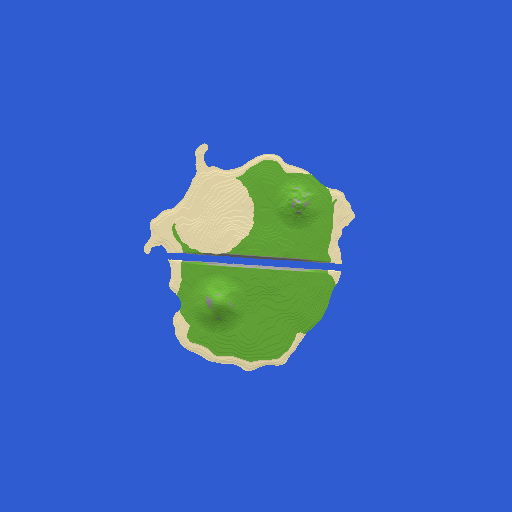
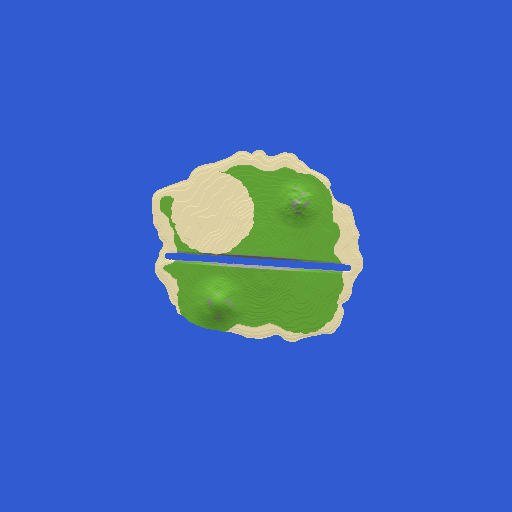
Cavernas, vilas e um comando só para criar o mundo
- gerar.py escava cavernas (túneis sinuosos e salas) com pelo menos
  5 blocos de rocha sob o chão, sem abrir buracos nem inundar; lava
  abaixo de Y -55, como no Minecraft normal.
- testar_local.py constrói as vilas marcadas no editor com
  /place structure, depois que o Paper completa os chunks.
- criar_mundo.py: do .mcmapa ao mundo pronto (region, entities, poi),
  com imagem vista de cima e relatório com os comandos de instalação.
- Editor avisa quando a vila fica perto da água (vilas são grandes).

diff --git a/editor/js/app.js b/editor/js/app.js
@@ -166,7 +166,14 @@ function placeMarker(p) {
     if (vilas.some(v => dist(v) < VILA_DIST_MIN)) { avisar('🏘 Muito perto de outra vila — deixe mais espaço'); return; }
     map.changeMarkers(mk => { mk.vilas.push({ x, z }); });
     const b = BIOMES[map.biome[map.idx(x | 0, z | 0)]];
-    avisar(`🏘 Vila de ${VILA_NOMES[tipoDeVila(b.id)]} marcada!`);
+    // vilas do Minecraft se espalham uns 50–80 blocos: avisa se tem água ou borda por perto
+    let pertoDaAgua = false;
+    for (let k = 0; k < 16 && !pertoDaAgua; k++) {
+      const a = k * Math.PI / 8, px = x + Math.cos(a) * 40, pz = z + Math.sin(a) * 40;
+      pertoDaAgua = px < 0 || pz < 0 || px >= map.w || pz >= map.h || map.isWater(px, pz);
+    }
+    avisar(`🏘 Vila de ${VILA_NOMES[tipoDeVila(b.id)]} marcada!` +
+      (pertoDaAgua ? ' Dica: vilas são grandes — perto da água os caminhos podem chegar até a praia.' : ''));
   }
   updateUndoButtons();
 }

diff --git a/gerador/gerar.py b/gerador/gerar.py
@@ -14,6 +14,7 @@ import gzip
 import json
 import math
 import os
+import random
 import struct
 import sys
 import time
@@ -29,7 +30,13 @@ SEC_MIN, SEC_MAX = -4, 19    # 24 seções
 
 AIR, WATER, STONE, DEEPSLATE, BEDROCK = ('minecraft:air', 'minecraft:water', 'minecraft:stone',
                                          'minecraft:deepslate', 'minecraft:bedrock')
-OCEAN_DEPTH = 14             # profundidade do oceano em volta do desenho
+CAVE_AIR, LAVA = 'minecraft:cave_air', 'minecraft:lava'
+CAVE_CHANCE = 0.14           # chance de um chunk do desenho começar um sistema de cavernas
+CAVE_MIN_Y = -59             # não escava a camada de bedrock
+CAVE_TETO = 5                # blocos de rocha preservados embaixo do chão (terra)
+CAVE_TETO_AGUA = 6           # idem embaixo de água (não inunda as cavernas)
+LAVA_Y = -55                 # abaixo disso a caverna fica com lava, como no Minecraft normal
+OCEAN_DEPTH = 14            # profundidade do oceano em volta do desenho
 BLEND = 24                   # blocos para o terreno descer suavemente até o oceano fora do desenho
 
 AQUATIC = {'minecraft:ocean', 'minecraft:warm_ocean', 'minecraft:frozen_ocean', 'minecraft:river',
@@ -137,7 +144,52 @@ def surface_layers(biome, top, sea, slope, wx, wz):
 
 
 # ---------------------------------------------------------------- chunk
-def build_chunk(world, cx, cz):
+def plan_caves(world, cx0, cz0, cx1, cz1, seed):
+    """Planeja as cavernas do desenho: túneis sinuosos e algumas salas.
+    Devolve {(cx, cz): [(x, y, z, raio, achatamento), ...]} com as esferas que tocam cada chunk."""
+    spheres = []
+    for cz in range(cz0, cz1 + 1):
+        for cx in range(cx0, cx1 + 1):
+            # semente estável por chunk (o mesmo mapa gera sempre as mesmas cavernas)
+            rng = random.Random(((seed * 73856093) ^ (cx * 19349663) ^ (cz * 83492791) ^ 0x5EED) & 0xFFFFFFFF)
+            if rng.random() >= CAVE_CHANCE:
+                continue
+            x, z = cx * 16 + rng.random() * 16, cz * 16 + rng.random() * 16
+            top, _ = world.column(int(x), int(z))
+            y_max = min(48, top - 12)
+            if y_max < -48:
+                continue
+            y = rng.uniform(-50, y_max)
+            if rng.random() < 0.25:   # sala grande no começo
+                spheres.append((x, y, z, rng.uniform(5, 9), 0.55))
+            for _ in range(rng.randint(1, 3)):
+                tx, ty, tz = x, y, z
+                yaw, pitch = rng.uniform(0, 2 * math.pi), rng.uniform(-0.35, 0.35)
+                dyaw = 0.0
+                comp = rng.randint(50, 140)
+                base_r = rng.uniform(1.6, 3.2)
+                for i in range(comp):
+                    tx += math.cos(yaw) * math.cos(pitch)
+                    tz += math.sin(yaw) * math.cos(pitch)
+                    ty += math.sin(pitch)
+                    dyaw = dyaw * 0.75 + rng.uniform(-1, 1) * 0.18
+                    yaw += dyaw
+                    pitch = pitch * 0.9 + rng.uniform(-1, 1) * 0.09
+                    if ty < CAVE_MIN_Y + 2:
+                        pitch = abs(pitch)
+                    r = base_r * (0.75 + 0.5 * math.sin(math.pi * i / comp))
+                    if i % max(1, int(r / 1.5)) == 0:
+                        spheres.append((tx, ty, tz, r, 1.0))
+    by_chunk = {}
+    for s in spheres:
+        x, _, z, r, _ = s
+        for ccz in range(math.floor((z - r) / 16), math.floor((z + r) / 16) + 1):
+            for ccx in range(math.floor((x - r) / 16), math.floor((x + r) / 16) + 1):
+                by_chunk.setdefault((ccx, ccz), []).append(s)
+    return by_chunk, len(spheres)
+
+
+def build_chunk(world, cx, cz, caves=None):
     sea = world.sea
     # alturas com 1 bloco de margem (para medir inclinação)
     hgt = {}
@@ -162,7 +214,38 @@ def build_chunk(world, cx, cz):
     max_top, min_top = max(tops), min(tops)
     min_surf = min(min(c[1]) if c[1] else c[0] for c in cols)
 
-    def block(c, y):
+    # cavernas: blocos escavados por esferas que passam por este chunk
+    carved = set()
+    carved_secs = set()
+    bx0, bz0 = cx * 16, cz * 16
+    for (sx, sy, sz, r, vs) in caves or ():
+        ry = r * vs
+        xa, xb = max(0, math.floor(sx - r) - bx0), min(15, math.ceil(sx + r) - bx0)
+        za, zb = max(0, math.floor(sz - r) - bz0), min(15, math.ceil(sz + r) - bz0)
+        if xa > xb or za > zb:
+            continue
+        for y in range(max(CAVE_MIN_Y, math.floor(sy - ry)), math.ceil(sy + ry) + 1):
+            dy = (y + 0.5 - sy) / ry
+            dy2 = dy * dy
+            if dy2 > 1:
+                continue
+            for z in range(za, zb + 1):
+                dz = (bz0 + z + 0.5 - sz) / r
+                rest = 1 - dy2 - dz * dz
+                if rest < 0:
+                    continue
+                for x in range(xa, xb + 1):
+                    dx = (bx0 + x + 0.5 - sx) / r
+                    if dx * dx <= rest:
+                        ci = z * 16 + x
+                        top = tops[ci]
+                        if y <= top - (CAVE_TETO_AGUA if top < sea - 1 else CAVE_TETO):
+                            carved.add((y - MIN_Y) * 256 + ci)
+                            carved_secs.add(y >> 4)
+
+    def block(c, y, ci=None):
+        if carved and ci is not None and (y - MIN_Y) * 256 + ci in carved:
+            return LAVA if y <= LAVA_Y else CAVE_AIR
         top, surf, wx, wz = c
         if y > top:
             return WATER if y < sea else AIR
@@ -183,7 +266,9 @@ def build_chunk(world, cx, cz):
     for sy in range(SEC_MIN, SEC_MAX + 1):
         base = sy * 16
         top_y = base + 15
-        if base > max_top and base >= sea:
+        if sy in carved_secs:
+            uniform = None
+        elif base > max_top and base >= sea:
             uniform = AIR
         elif top_y < min_surf and base >= 8:
             uniform = STONE
@@ -197,8 +282,8 @@ def build_chunk(world, cx, cz):
             palette = {}
             idx = []
             for y in range(base, base + 16):
-                for c in cols:
-                    name = block(c, y)
+                for ci, c in enumerate(cols):
+                    name = block(c, y, ci)
                     i = palette.get(name)
                     if i is None:
                         i = palette[name] = len(palette)
@@ -290,6 +375,7 @@ def main():
     ap.add_argument('projeto')
     ap.add_argument('saida')
     ap.add_argument('--anel', type=int, default=8, help='chunks de oceano em volta do desenho (padrão 8)')
+    ap.add_argument('--sem-cavernas', action='store_true', help='não escava cavernas')
     a = ap.parse_args()
 
     p, w, h, heights, biomes = load_project(a.projeto)
@@ -303,11 +389,16 @@ def main():
     os.makedirs(os.path.join(a.saida, 'region'), exist_ok=True)
     regions = {}
     t0 = time.time()
+    caves, n_esferas = {}, 0
+    if not a.sem_cavernas:
+        caves, n_esferas = plan_caves(world, world.ox // 16, world.oz // 16,
+                                      (world.ox + w) // 16 - 1, (world.oz + h) // 16 - 1, int(p.get('semente') or 0))
+        print(f'  cavernas planejadas: {n_esferas} trechos')
     total = (c1x - c0x + 1) * (c1z - c0z + 1)
     done = 0
     for cz in range(c0z, c1z + 1):
         for cx in range(c0x, c1x + 1):
-            raw = dumps(build_chunk(world, cx, cz))
+            raw = dumps(build_chunk(world, cx, cz, caves.get((cx, cz))))
             regions.setdefault((cx >> 5, cz >> 5), {})[(cx & 31, cz & 31)] = raw
             done += 1
         print(f'\r  chunks: {done}/{total}', end='', flush=True)

diff --git a/gerador/criar_mundo.py b/gerador/criar_mundo.py
@@ -1,0 +1,105 @@
+"""Um comando só: desenho (.mcmapa) -> mundo pronto para instalar, com imagem e relatório.
+
+  python -I -X utf8 gerador/criar_mundo.py mapas/meu-mapa.mcmapa
+
+Passos:
+  1. gera as regiões (terreno, superfície, biomas, cavernas)        -> gerar.py
+  2. o Paper de TESTE local completa os chunks e constrói as vilas   -> testar_local.py
+  3. copia o resultado para saida/<nome>/mundo-pronto/ (region, entities, poi)
+  4. desenha o mundo visto de cima e escreve o relatório
+
+Nada aqui toca na Pi. A instalação na Pi é um passo separado, sempre com aprovação.
+"""
+import json
+import os
+import shutil
+import subprocess
+import sys
+import time
+
+AQUI = os.path.dirname(os.path.abspath(__file__))
+RAIZ = os.path.dirname(AQUI)
+OVERWORLD = os.path.join(RAIZ, 'teste-servidor', 'dados', 'world', 'dimensions', 'minecraft', 'overworld')
+PY = [sys.executable, '-I', '-X', 'utf8']
+
+
+def rodar(script, *args, capturar=False):
+    cmd = PY + [os.path.join(AQUI, script), *args]
+    env = {**os.environ, 'PYTHONIOENCODING': 'utf-8'}
+    if capturar:
+        return subprocess.run(cmd, check=True, capture_output=True, text=True, encoding='utf-8', env=env).stdout
+    subprocess.run(cmd, check=True, env=env)
+
+
+def main():
+    if len(sys.argv) < 2:
+        print(__doc__)
+        sys.exit(1)
+    projeto = os.path.abspath(sys.argv[1])
+    extra = sys.argv[2:]                       # ex.: --sem-cavernas, --anel 10
+    nome = os.path.splitext(os.path.basename(projeto))[0]
+    saida = os.path.join(RAIZ, 'saida', nome)
+    pronto = os.path.join(saida, 'mundo-pronto')
+    t0 = time.time()
+
+    print(f'== 1/4 gerando o terreno de "{nome}"')
+    rodar('gerar.py', projeto, saida, *extra)
+    print('\n== 2/4 completando no Paper de teste (árvores, minérios, luz, vilas)')
+    rodar('testar_local.py', saida)
+
+    print('\n== 3/4 copiando o mundo pronto')
+    info = json.load(open(os.path.join(saida, 'info.json'), encoding='utf-8'))
+    shutil.rmtree(pronto, ignore_errors=True)
+    copiados = 0
+    for sub in ('region', 'entities', 'poi'):      # blocos, aldeões/animais, pontos de interesse (camas, sinos…)
+        os.makedirs(os.path.join(pronto, sub))
+        for arq in info['regioes']:
+            src = os.path.join(OVERWORLD, sub, arq)
+            if os.path.exists(src):
+                shutil.copy2(src, os.path.join(pronto, sub, arq))
+                copiados += 1
+    print(f'   {copiados} arquivos em {pronto}')
+
+    print('\n== 4/4 imagem e relatório')
+    resumo = json.loads(rodar('renderizar.py', os.path.join(pronto, 'region'), os.path.join(saida, 'info.json'),
+                              os.path.join(saida, 'mundo.png'), capturar=True))
+    try:   # recorte só do desenho, ampliado (o anel de oceano fica de fora)
+        from PIL import Image
+        im = Image.open(os.path.join(saida, 'mundo.png'))
+        m = (info['chunks_x'][0] - info['desenho_x'][0] // 16) * -16
+        corte = im.crop((m, m, im.size[0] - m, im.size[1] - m))
+        escala = max(1, 768 // max(corte.size))
+        corte.resize((corte.size[0] * escala, corte.size[1] * escala), Image.NEAREST).save(os.path.join(saida, 'mundo-desenho.png'))
+    except Exception as e:  # Pillow é opcional
+        print('   (sem recorte ampliado:', e, ')')
+
+    vilas = info.get('vilas_resultado') or []
+    linhas = [
+        f'Mundo: {nome}',
+        f'Desenho: {info["largura"]} x {info["altura"]} blocos, centro em X 0 Z 0; nível do mar {info["nivelMar"]}',
+        f'Spawn: X {info["spawn"][0]} Y {info["spawn"][1]} Z {info["spawn"][2]} ({info.get("spawn_origem", "")})',
+        f'Borda do mundo: centro {info["borda_centro"]}, tamanho {info["borda_tamanho"]} blocos',
+        f'Vilas: {sum(v["ok"] for v in vilas)} de {len(vilas)} construídas'
+        + ''.join(f'\n  - {v["estrutura"]} em X {v["x"]} Z {v["z"]}: {"ok" if v["ok"] else v["resposta"]}' for v in vilas),
+        '',
+        'Conteúdo (contado nos chunks prontos):',
+        *[f'  {k}: {v}' for k, v in resumo.items() if k != 'biomas (células)'],
+        '',
+        'Arquivos para instalar (dimensions/minecraft/overworld/):',
+        *[f'  {sub}/{arq}' for sub in ('region', 'entities', 'poi') for arq in info['regioes']
+          if os.path.exists(os.path.join(pronto, sub, arq))],
+        '',
+        'Comandos no servidor depois de instalar:',
+        f'  setworldspawn {info["spawn"][0]} {info["spawn"][1]} {info["spawn"][2]}',
+        f'  worldborder center {info["borda_centro"][0]} {info["borda_centro"][1]}',
+        f'  worldborder set {info["borda_tamanho"]}',
+        '',
+        f'Tempo total: {time.time() - t0:.0f}s',
+    ]
+    open(os.path.join(saida, 'relatorio.txt'), 'w', encoding='utf-8').write('\n'.join(linhas) + '\n')
+    print('\n'.join(linhas))
+    print(f'\nPronto! Veja {os.path.join(saida, "mundo-desenho.png")} e {os.path.join(saida, "relatorio.txt")}')
+
+
+if __name__ == '__main__':
+    main()

diff --git a/gerador/renderizar.py b/gerador/renderizar.py
@@ -26,7 +26,8 @@ CORES = {
     'lily_pad': (32, 128, 48), 'mud': (60, 57, 60), 'moss_block': (89, 109, 45),
     'terracotta': (152, 94, 67), 'orange_terracotta': (161, 83, 37), 'yellow_terracotta': (186, 133, 35),
     'white_terracotta': (209, 178, 161), 'red_terracotta': (143, 61, 46), 'light_gray_terracotta': (135, 107, 98),
-    'brown_terracotta': (77, 51, 35), 'red_mushroom_block': (200, 46, 45), 'brown_mushroom_block': (149, 111, 81),
+    'brown_terracotta': (77, 51, 35), 'dirt_path': (148, 122, 65), 'bell': (250, 210, 60),
+    'pink_petals': (245, 160, 200), 'cherry_leaves': (240, 170, 205), 'red_mushroom_block': (200, 46, 45), 'brown_mushroom_block': (149, 111, 81),
     'mushroom_stem': (203, 196, 185), 'pumpkin': (198, 118, 24), 'melon': (111, 145, 30), 'bamboo': (93, 144, 19),
 }
 
@@ -108,6 +109,9 @@ def main(region_dir, info_path, out):
         'neve (camada)': all_blocks.get('minecraft:snow', 0),
         'gelo': all_blocks.get('minecraft:ice', 0),
         'cactos': all_blocks.get('minecraft:cactus', 0),
+        'sinos de vila': all_blocks.get('minecraft:bell', 0),
+        'camas': soma(lambda k: k.endswith('_bed')),
+        'ar de caverna': all_blocks.get('minecraft:cave_air', 0),
         'flores/plantas': soma(lambda k: any(t in k for t in ('flower', 'tulip', 'poppy', 'dandelion', 'petals', 'grass', 'fern', 'bush'))),
         'biomas (células)': dict(biome_cells.most_common()),
     }

diff --git a/gerador/testar_local.py b/gerador/testar_local.py
@@ -84,6 +84,20 @@ def main(saida):
         print(f'    {time.time() - t0:5.0f}s  prontos {full}/{total}  {dict(st)}')
         if full >= total or time.time() - t0 > 900:
             break
+    # vilas marcadas no editor: o próprio Minecraft constrói (casas, caminhos, aldeões)
+    vilas = info.get('vilas') or []
+    resultado_vilas = []
+    for v in vilas:
+        resp = r.cmd(f'place structure {v["estrutura"]} {v["x"]} {v["y"]} {v["z"]}')
+        ok = 'Generated' in resp or 'gerad' in resp.lower()
+        resultado_vilas.append({**v, 'ok': ok, 'resposta': resp.strip()})
+        print(f'    vila {v["estrutura"]} em X {v["x"]} Z {v["z"]}: {"✓" if ok else "✗ " + resp.strip()}')
+    if vilas:
+        time.sleep(5)          # deixa o servidor terminar de colocar as peças das vilas
+        r.cmd('save-all flush')
+    info['vilas_resultado'] = resultado_vilas
+    json.dump(info, open(os.path.join(saida, 'info.json'), 'w', encoding='utf-8'), indent=2, ensure_ascii=False)
+
     r.cmd('forceload remove all')
     r.cmd('save-all flush')
     time.sleep(2)

diff --git a/README.md b/README.md
@@ -52,11 +52,13 @@ Abra <http://127.0.0.1:8772>. Os arquivos em `editor/` são servidos direto; edi
 Transforma o `.mcmapa` em arquivos de região Anvil (`.mca`) do Minecraft **26.3** (DataVersion 5023).
 Só biblioteca padrão do Python.
 
-Cada chunk é gravado com status **`terrain`** (pedra, água, superfície e biomas prontos). No 26.x a Mojang juntou as antigas
-etapas *noise*, *surface* e *carvers* numa só; então o gerador faz a superfície e o **Minecraft completa o resto**
-(árvores, flores, minérios, neve, luz) conforme cada bioma. Detalhes: [analise/ESTRUTURA.md](analise/ESTRUTURA.md).
+Cada chunk é gravado com status **`terrain`** (pedra, água, superfície, biomas e **cavernas** prontos). No 26.x a Mojang
+juntou as antigas etapas *noise*, *surface* e *carvers* numa só; então o gerador faz a superfície e as cavernas e o
+**Minecraft completa o resto** (árvores, flores, minérios, neve, luz) conforme cada bioma. As **vilas** marcadas no editor
+são construídas pelo próprio Minecraft com `/place structure`. Detalhes: [analise/ESTRUTURA.md](analise/ESTRUTURA.md).
 
-- `gerador/gerar.py` — **projeto `.mcmapa` → regiões `.mca`** (com anel de oceano em volta do desenho)
+- `gerador/criar_mundo.py` — **um comando só: `.mcmapa` → mundo pronto** + imagem + relatório (usa os scripts abaixo)
+- `gerador/gerar.py` — projeto `.mcmapa` → regiões `.mca` (terreno, cavernas, anel de oceano em volta do desenho)
 - `gerador/testar_local.py` — põe o mapa num Paper de teste local, completa os chunks e desliga
 - `gerador/renderizar.py` — imagem vista de cima + contagem de árvores, minérios, neve…
 - `gerador/nbt.py`, `gerador/anvil.py`, `gerador/chunkfmt.py` — ler/gravar NBT, regiões e a compactação dos chunks
@@ -72,19 +74,17 @@ Os programas do servidor **não vêm no repositório** (a Mojang não permite re
 como `teste-servidor/dados/server.properties` e aceite o [EULA](https://aka.ms/MinecraftEULA) em `teste-servidor/dados/eula.txt`.
 
 ```bash
-python -I -X utf8 gerador/gerar.py mapas/meu-mapa.mcmapa saida/meu-mapa
+python -I -X utf8 gerador/criar_mundo.py mapas/meu-mapa.mcmapa
 ```
 
-```bash
-python -I -X utf8 gerador/testar_local.py saida/meu-mapa
-```
+Em uns 2 minutos (mapa 256×256) sai em `saida/meu-mapa/`:
 
-```bash
-python -I -X utf8 gerador/renderizar.py teste-servidor/dados/world/dimensions/minecraft/overworld/region saida/meu-mapa/info.json saida/meu-mapa/depois.png
-```
+- `mundo-pronto/` — `region/`, `entities/` e `poi/` com os chunks **prontos** (status `full`, vilas com aldeões):
+  o servidor de verdade não precisa gerar nada (bom para servidores fracos, como uma Raspberry Pi);
+- `mundo.png` e `mundo-desenho.png` — o mundo visto de cima;
+- `relatorio.txt` — spawn, borda, vilas, contagem de árvores/minérios/cavernas, arquivos e comandos para instalar.
 
-Depois disso, os arquivos de `teste-servidor/dados/world/dimensions/minecraft/overworld/region` são chunks **prontos**:
-o servidor de verdade não precisa gerar nada (bom para servidores fracos, como uma Raspberry Pi).
+Opções: `--sem-cavernas`, `--anel N` (chunks de oceano em volta; padrão 8).
 
 ## Formato do projeto (`.mcmapa`)
 
